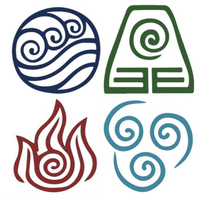
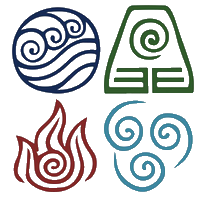
make all images have transaprent background

diff --git a/css/index.css b/css/index.css
@@ -8,7 +8,7 @@ body{
 
 .card {
   cursor: pointer;
-  background-color: #9932cc;
+  background-color: #faebd7;
 }
 
 .card-img-top {
